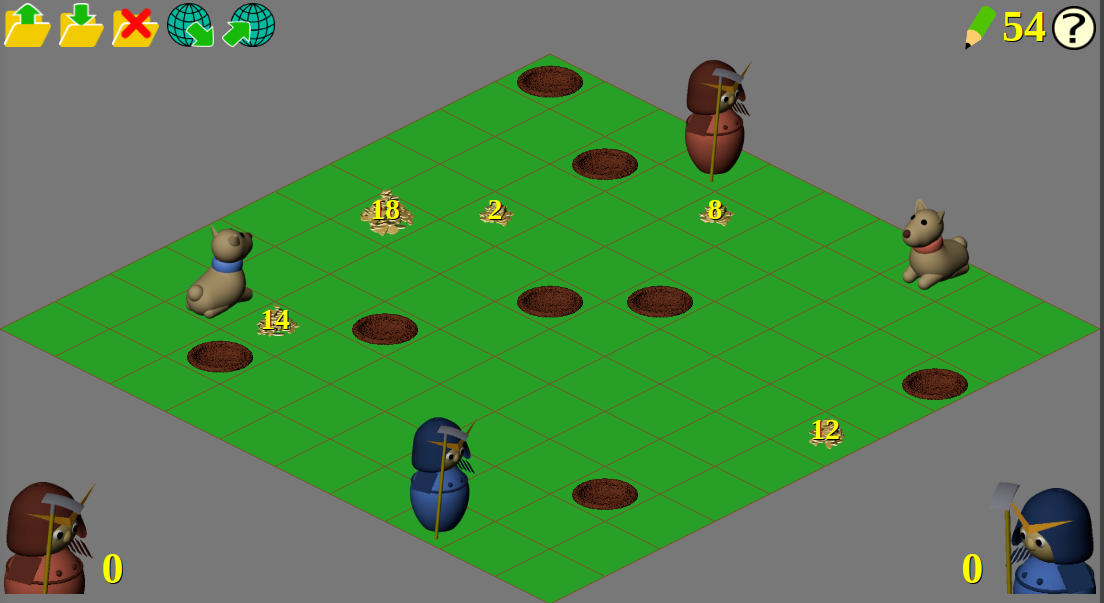
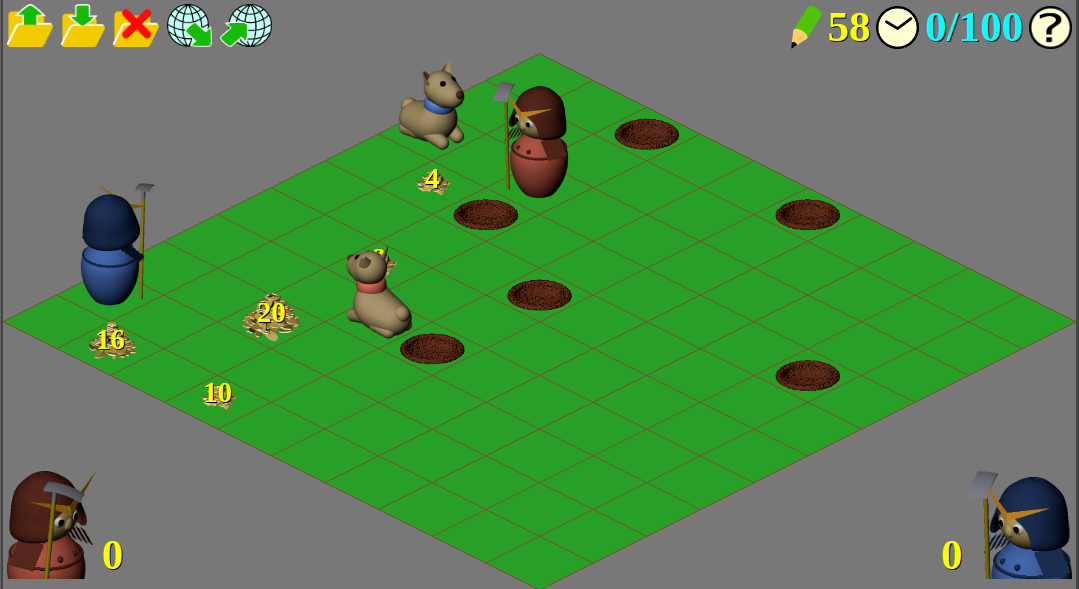
Make images visible with Firefox

diff --git a/documents/help.html b/documents/help.html
@@ -93,7 +93,7 @@
 	<li>
 	  Clicking the left-most <em>reinitialize button</em>
 	  <img src="../icons/reinit.png" class="inlineIcon">
-	  will intialize the game with different random configuration.
+	  will initialize the game with different random configuration.
 	</li>
 	<li>
 	  Clicking the <em>rewind button</em>
@@ -115,11 +115,12 @@
 	  and the play will continue until this button is clicked,
 	  all the embedded gold is dug out, or
 	  the maximum number of steps is played.
-	  The play speed can be adjusted using the <em>speedometer button</em>
+	  The play speed can be adjusted using the
+	  <em>speedometer button</em>
 	  explained below.
 	</li>
 	<li>
-	  Cliking the <em>step forward button</em>
+	  Clicking the <em>step forward button</em>
 	  <img src="../icons/stepForward.png" class="inlineIcon">
 	  plays a single step of automatic play.
 	</li>
@@ -141,6 +142,20 @@
 	  Alternatively, moving a mouse wheel while the mouse cursor
 	  is on the speedometer.
 	  The maximum play speed is 240 spm and the minimum is 24.
+	</li>
+	<li>
+	  The state of the game displayed can be advanced or
+	  rewound by mouse oepration on the <em>clock icon</em>
+	  <img src="../icons/clock.png" class="inlineIcon">
+	  displayed on the top right of the screen.
+	  Clicking the icon advances the displayed state with one step
+	  if a shift key is pressed; rewound otherwise.
+	  Rotating the wheel up or down also advances or rewinds
+	  the game state.
+	  When a control key is pressed,
+	  10 steps are advanced or rewound at a time.
+	  Neither going before the initial state nor
+	  beyond the last step ever reached in the game is possible.
 	</li>
       </ul>
     </p>
@@ -234,7 +249,7 @@
 	</tr>
 	<tr>
 	  <th><tt>l e &rarr;</tt></th>
-	  <td>Specifies the lowerright cell (&searr;)</td>
+	  <td>Specifies the lower right cell (&searr;)</td>
 	</tr>
 	<tr>
 	  <th><tt>.</tt> <em>space</em></th>
@@ -292,7 +307,7 @@
       The game is brought back to its initial state,
       and the following changes are made on the screen.
       <nl>
-	<li>The bottons on top are replaced by those for editing</li>
+	<li>The buttons on top are replaced by those for editing</li>
 	<li>Hidden embedded golds are made apparent</li>
 	<li>The background color will change</li>
       </nl>
@@ -306,16 +321,24 @@
       becomes white, and 
       the following editing are available on the cell.
     </p>
-    <h3>Moving the Agents</h3>
+    <h3>Setting the Agents</h3>
     <p>
-      Pressing the mouse button on a cell with an agent on it, and
+      Pressing a mouse button on a cell with an agent on it, and
       dragging the mouse moves the agent another cell.  When the mouse
       button is released on a cell with embedded gold or a hole, the
       agent moves to the cell the mouse cursor was previously on.
     </p>
+    <p>
+      If a shift key is pressed when the mouse mouse button is pressed,
+      the agent rotates clockwise.
+      This also takes place when the mouse is not dragged, that is,
+      when the cell with an agent is simply clicked with a shift key pressed.
+      Note that, although this changes the appearance of the agent
+      in the initial state, it has no influence on the game play.
+    </p>
     <h3>Setting Embedded Gold</h3>
     <p>
-      The amount of embedded gold in a cell can be inreased or
+      The amount of embedded gold in a cell can be increased or
       decreased by clicking the mouse button on the cell.
       With a mouse click <em>without</em> pressing a shift key
       <em>decreases</em> the amount by 2.
@@ -333,6 +356,21 @@
       With a mouse click on a cell without an agent nor any embedded gold,
       a new hole is dug out on the cell, if none is there.
       If the cell already has a hole, it is plugged up.
+    </p>
+    <h3>Setting the Maximum Number of Steps</h3>
+    <p>
+      The maximum number of steps of the game can be
+      incremented or decremented by
+      a mouse click or mouse wheel rotation on the <em>clock icon</em>
+      <img src="../icons/clock.png" class="inlineIcon">
+      while in the edit mode.
+      Clicking the icon while pressing a shift key
+      increments the maximum number of steps and
+      decrements otherwise.
+      Rotating the wheel up or down increments or decrements it
+      respectively.
+      When a control key is pressed, the change amount is multiplied by 10.
+      It cannot be set to be less than 10.
     </p>
     <h3>Saving and Loading the Configuration</h3>
     <p>

diff --git a/documents/help-jp.html b/documents/help-jp.html
@@ -144,6 +144,18 @@
 	  マウスカーソルが速度計ボタンの上にあるときにマウスホイールを動かすことによっても速度を調節できます.
 	  最高速度は 240 spm, 最低速度は 24 spm です.
 	</li>
+	<li>
+	  画面に表示するゲームの状態は<em>時計アイコン</em>
+	  <img src="../icons/clock.png" class="inlineIcon">
+	  の上でのマウス操作で前後させることができます.
+	  アイコンをクリックすると, シフトキーを押していれば1ステップ前進,
+	  押していなければ後退します.
+	  アイコン上でマウスホイールを上に回せば前進,
+	  下に回せば後退します.
+	  コントロールキーを押していれば一度に10ステップ前進・後退します.
+	  ただし初期状態より前には戻れませんし,
+	  そのゲームで最も進行した状態より後にも行けません.
+	</li>
       </ul>
     </p>
     <h2>手動プレイモード</h2>
@@ -246,7 +258,7 @@
       での連続自動実行, 巻き戻しボタン
       <img src="../icons/rewind.png" class="inlineIcon">
       での状態初期化は可能です.
-      手動プレイモードはそのままになります.
+      プレイモードは手動のまま変わりません.
     </p>
     <h2>ゲーム状態情報</h2>
     <p>
@@ -298,12 +310,21 @@
       編集モードではマウスポインタがあるセルの外周が白く表示され,
       そのセルに対しての設定をマウス操作で編集できます.
     </p>
-    <h3>エージェントの移動</h3>
+    <h3>エージェントの設定</h3>
     <p>
       エージェントがあるセルでマウスボタンを押し下げて別のセルにドラッグすると,
       エージェントを移動できます.
       ただし埋蔵金があるセルや穴のあるセルでマウスボタンを離しても,
       そこには移動せず, 直前にマウスカーソルがあったセルに移動します.
+    </p>
+    <p>
+      マウスボタンを押し下げるときにシフトキーが押されていると,
+      エージェントは時計回りに回転します.
+      マウスをドラッグしなくても,
+      つまりシフトキーを押してエージェントのあるセルをクリックすることで,
+      エージェントは回転します.
+      なお, これでエージェントの初期状態での見た目が変わりますが,
+      そのことはプレイに何の影響も及ぼしません.
     </p>
     <h3>埋蔵金の設定</h3>
     <p>
@@ -321,6 +342,17 @@
       エージェントも埋蔵金もないセルの上でマウスボタンを押し下げると,
       そのセルに穴がなければ新たに穴を作り,
       穴があれば穴はなくなります.
+    </p>
+    <h3>最大ステップ数の設定</h3>
+    <p>
+      最大ステップ数は編集モード中に時計アイコン
+      <img src="../icons/clock.png" class="inlineIcon">
+      上のマウスクリックやホイールの回転で増減できます.
+      クリック時にシフトキーを押していれば最大ステップ数はひとつ増え,
+      押していなければ減ります.
+      ホイールを上に回せば増え, 下に回せば減ります.
+      操作時にコントロールキーを押していれば, 増減量は10倍になります.
+      ただし10より小さくはできません.
     </p>
     <h3>設定の保存と読み出し</h3>
     <p>

diff --git a/mockup/mockup.js b/mockup/mockup.js
@@ -14,8 +14,8 @@ let goldProb = 0.06;
 let goldKnownProb = 0.1;
 let maxGold2 = 10;
 
-let maxSteps = 100;
-let playUntil = maxSteps;
+let maxSteps;
+let playUntil;
 let playTempo = 60;
 let stepInterval = playTempo*1000/60;
 let frameRate = 20;
@@ -460,7 +460,7 @@ function repositionAgent(a, init) {
 
 function randomConfig() {
   const config = {
-    size: 10, agents: [], holes: [], golds: []
+    size: 10, steps: 100, agents: [], holes: [], golds: []
   };
   for (let na = 0; na != 4; ) {
     const x = Math.floor(config.size*random.gen());
@@ -729,7 +729,10 @@ class GameState {
       const image = a.attributes.image;
       const isDog = a.attributes.seq >= 2;
       if (init) {
-	image.setAttribute('width', (isDog ? 0.8 : 1.7)*cellWidth);
+	const w = (isDog ? 0.8 : 1.7)*cellWidth;
+	const h = w * (isDog ? 154/122: 273/301);
+	image.setAttribute('width', w);
+	image.setAttribute('height', h);
       }
       const team = a.attributes.seq%2;
       if (a.attributes.seq >= 2) {
@@ -960,6 +963,7 @@ function resizeField() {
 function redrawField(config) {
   stopAutoPlay();
   fieldSize = config.size;
+  maxSteps = config.steps;
   setSizes();
   // Prepare cells
   cells = [];
@@ -989,12 +993,14 @@ function redrawField(config) {
   loadButton.onclick = loadConfiguration;
   saveButton.onclick = saveConfiguration;
   removeButton.onclick = removeConfiguration;
+  clockButton.onclick = setStep;
+  clockButton.onwheel = setStep;
 
   hideWhileEdit = [
     rewindButton, stepBackwardButton, playStopButton,
     stepForwardButton, fastForwardButton, speedometerButton,
-    clockButton, reinitializeButton, goldImageButton,
-    manualButton, currentStepLabel, stepsPerMin
+    reinitializeButton, goldImageButton,
+    manualButton, stepsPerMin
   ];
   showWhileEdit = [
     loadButton, saveButton, removeButton, importButton, exportButton
@@ -1352,6 +1358,19 @@ class DiamondDownListener {
     if (agent != null) {
       const moveHandler =
 	    new AgentMove(agent, ev.pageX, ev.pageY);
+      if (ev.shiftKey) {
+	// Rotate the agent if a shift key is pressed
+	const role = agent.attributes.seq;
+	let delta = role < 2 ? 2 : 1;
+	if (ev.ctrlKey) delta = -delta;
+	const dir = (agent.direction + delta + 8) % 8;
+	agent.direction = dir;
+	const team = role % 2;
+	agent.attributes.image.setAttribute(
+	  'href',
+	  role < 2 ? samuraiStanding[dir+8*team] :
+	    dogSitting[dir+8*team]);
+      }
       field.addEventListener('mousemove', moveHandler);
       field.addEventListener(
 	'mouseup', new EndAgentMove(agent, moveHandler));
@@ -1448,6 +1467,26 @@ class EndAgentMove {
     const agent = this.moveHandler.agent;
     agent.at = this.moveHandler.nowAt;
     repositionAgent(agent, true);
+  }
+}
+
+function setStep(ev) {
+  let delta;
+  if (ev.type == "click") {
+    delta = (ev.shiftKey ? 1 : -1);
+  } else {
+    delta = ev.deltaY > 0 ? -1 : 1;
+  }
+  if (ev.ctrlKey) delta *= 10;
+  if (editMode) {
+    maxSteps = Math.max(10, maxSteps+delta);
+    currentStepLabel.innerHTML = currentStep + "/" + maxSteps;
+  } else {
+    const newStep = currentStep + delta;
+    if (0 <= newStep && newStep < stepRecords.length) {
+      currentStep = newStep;
+      stepRecords[currentStep].redraw(true);
+    }
   }
 }
 
